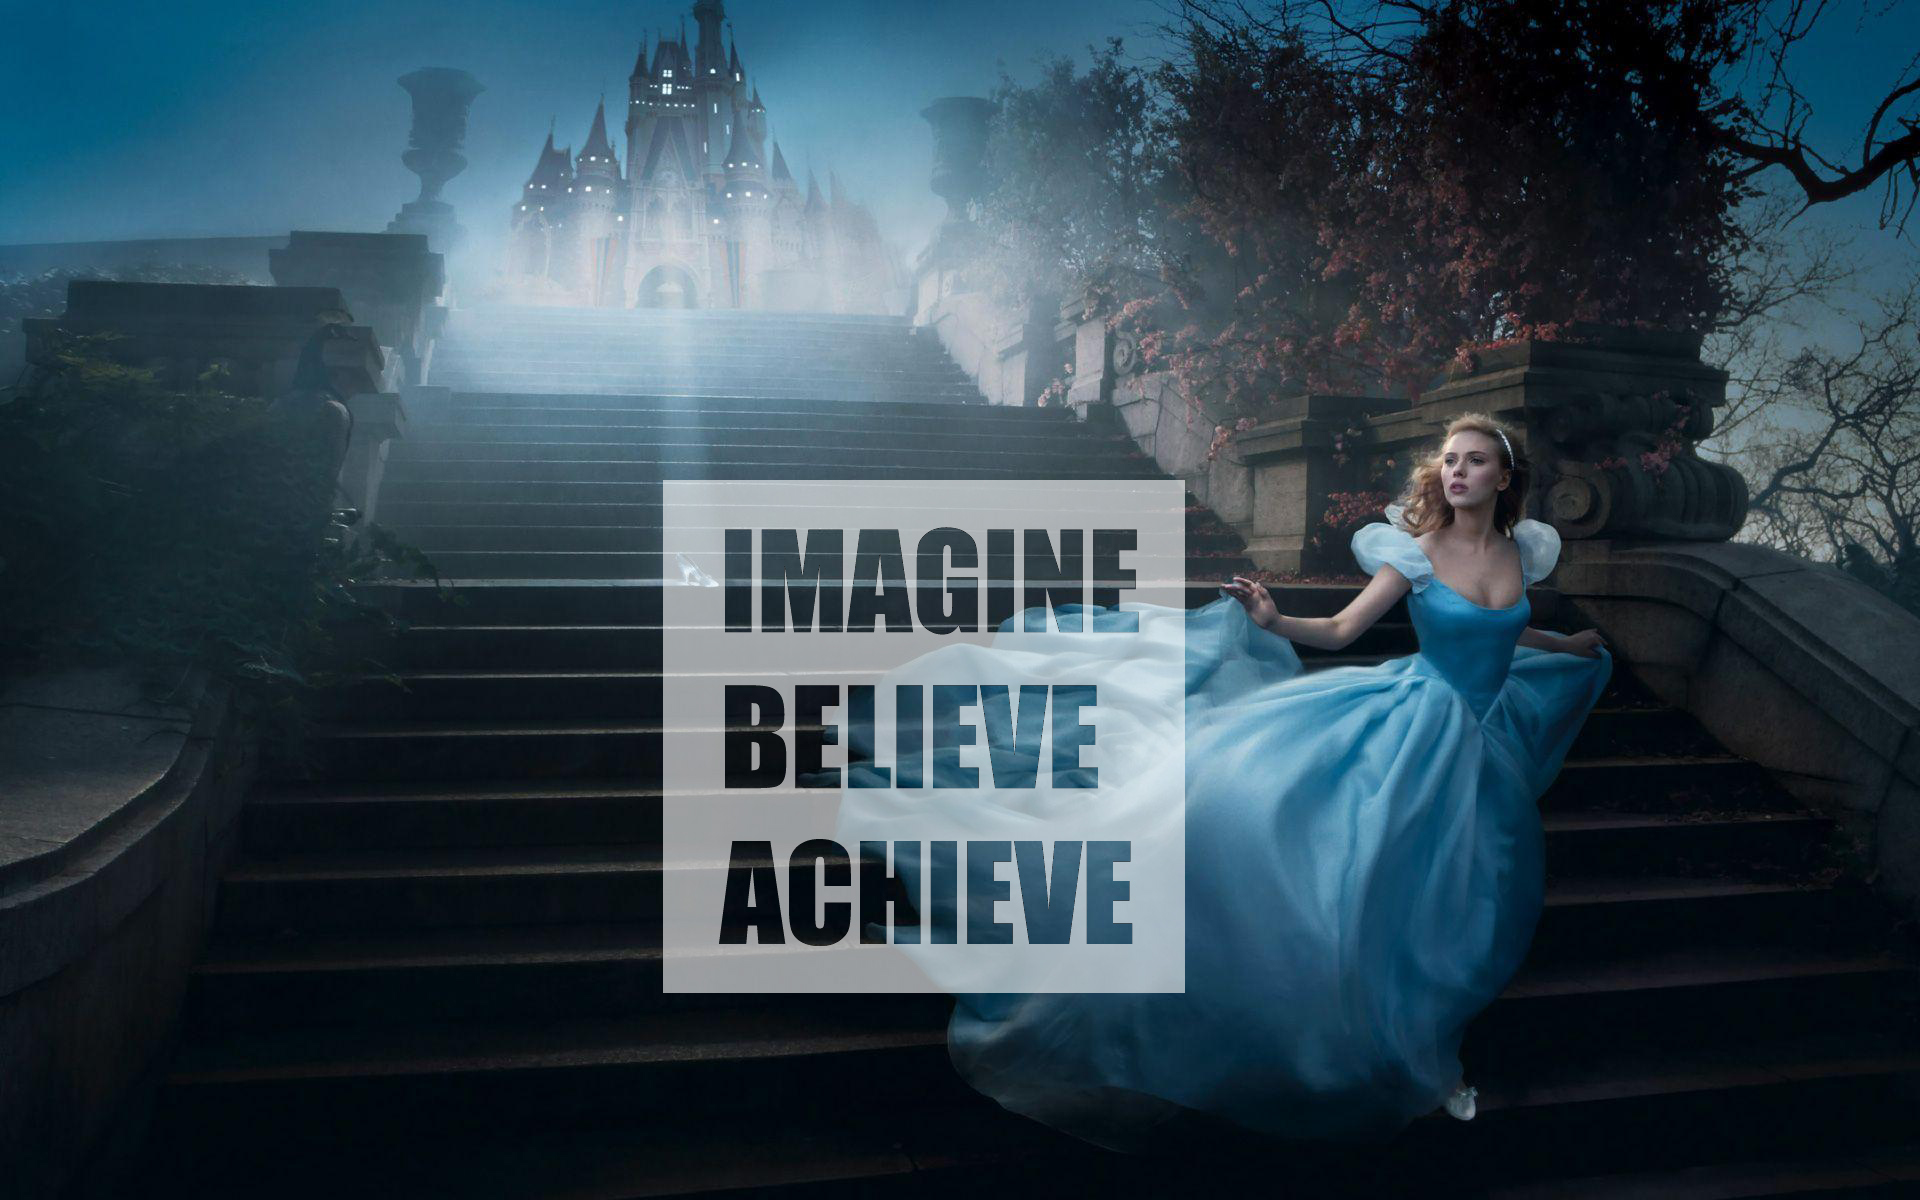
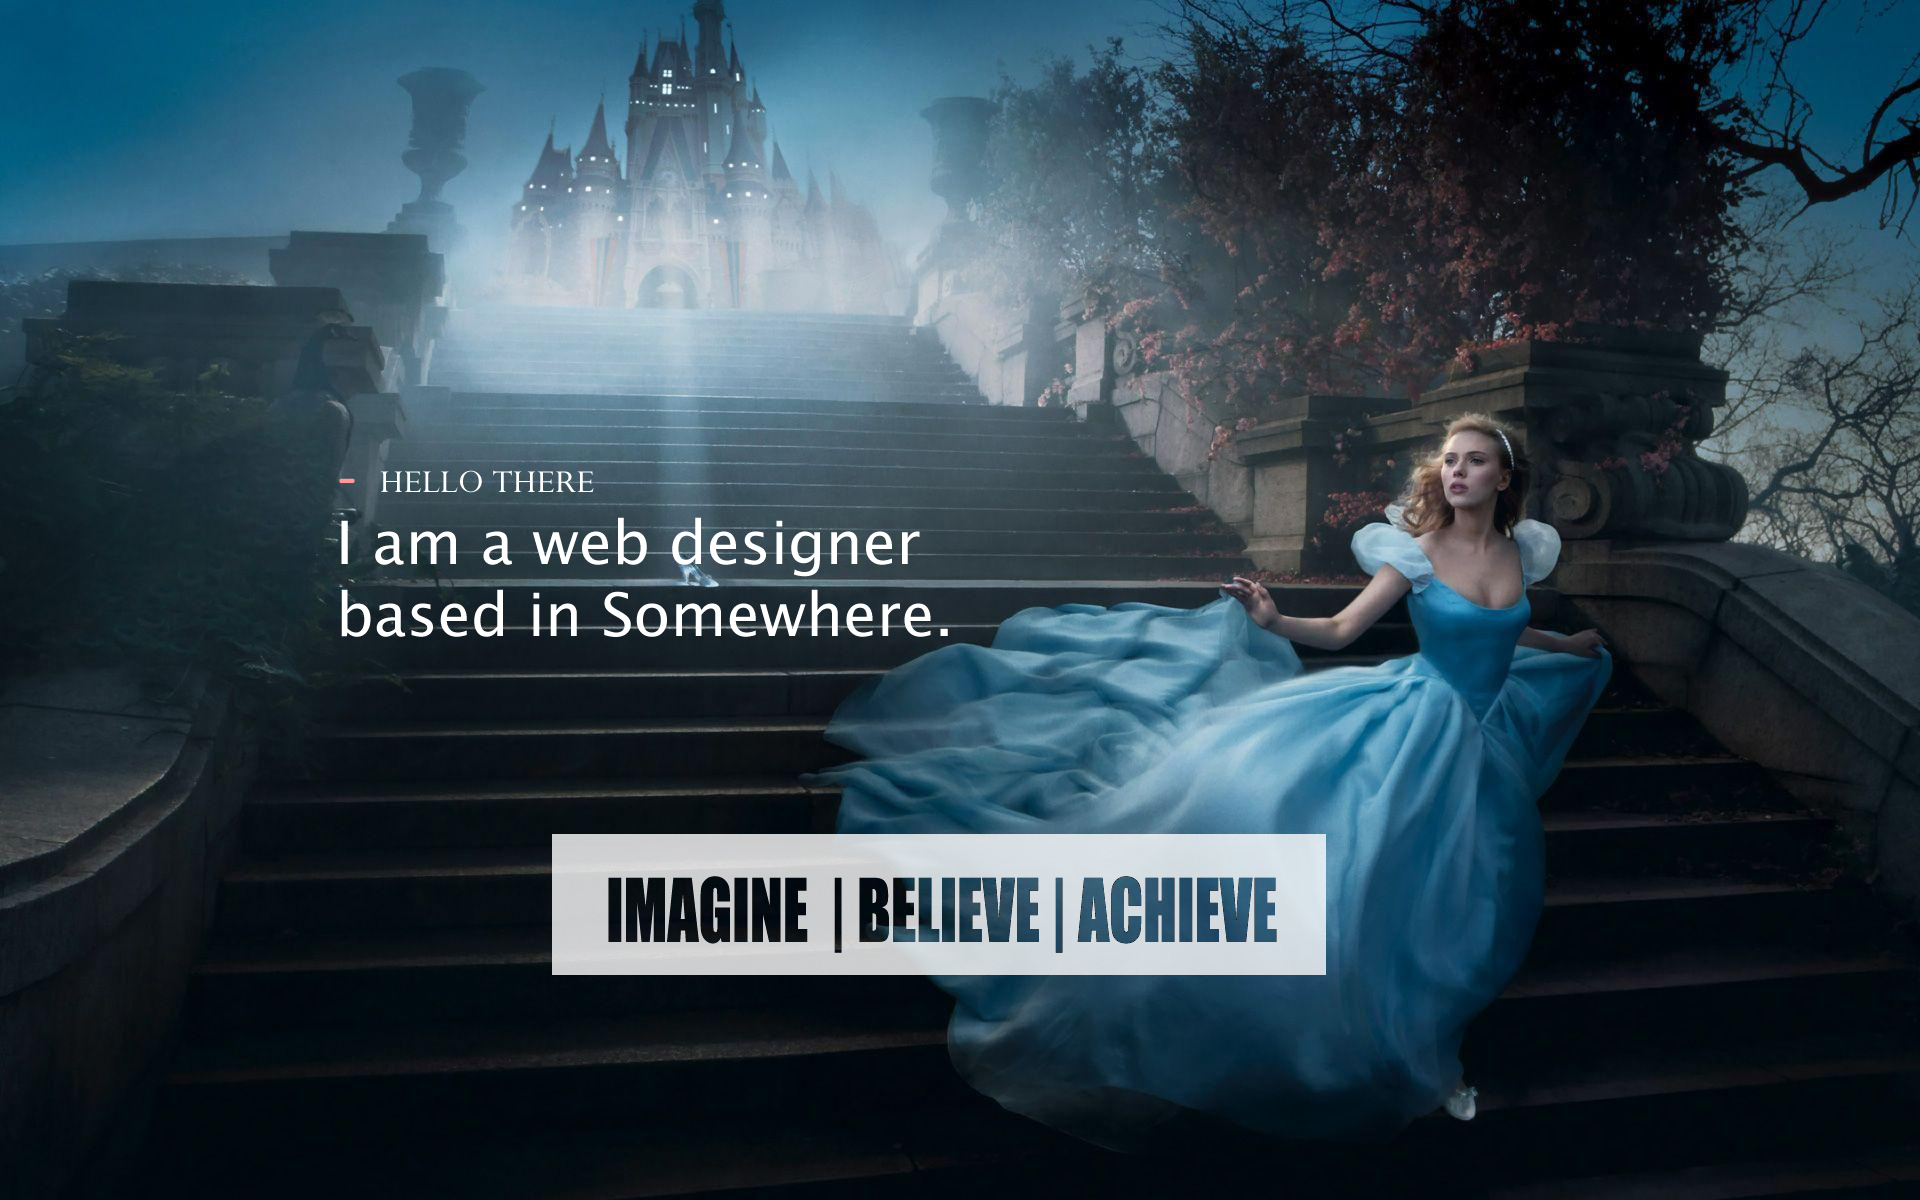
hi there added

Changed region(s): [[0.1562, 0.4008, 0.6875, 0.8325]]

diff --git a/index.html b/index.html
@@ -29,6 +29,12 @@
 		  background-size: cover;
 		  background-position: center
 		}
+	#logo{
+		top:0;
+		padding-left:1px;
+		height : 25%;
+		width:65%
+	} 	
 }
 @media only screen and (max-width: 500px) {
 	 body {
@@ -37,6 +43,12 @@
 		  background-size: cover;
 		  background-position: center
 		}
+	#logo{
+		top:0;
+		padding-left:10%;
+		height : 25%;
+		width:100%
+	} 	
 }	
 
 	
